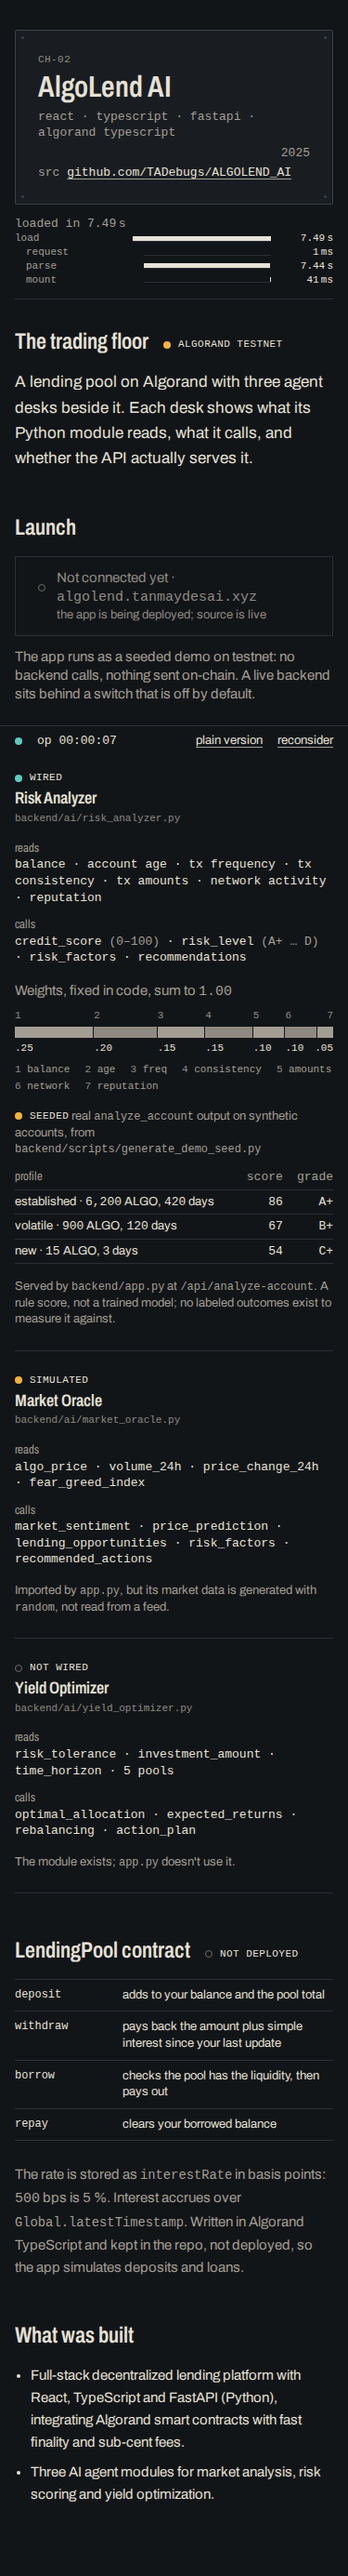
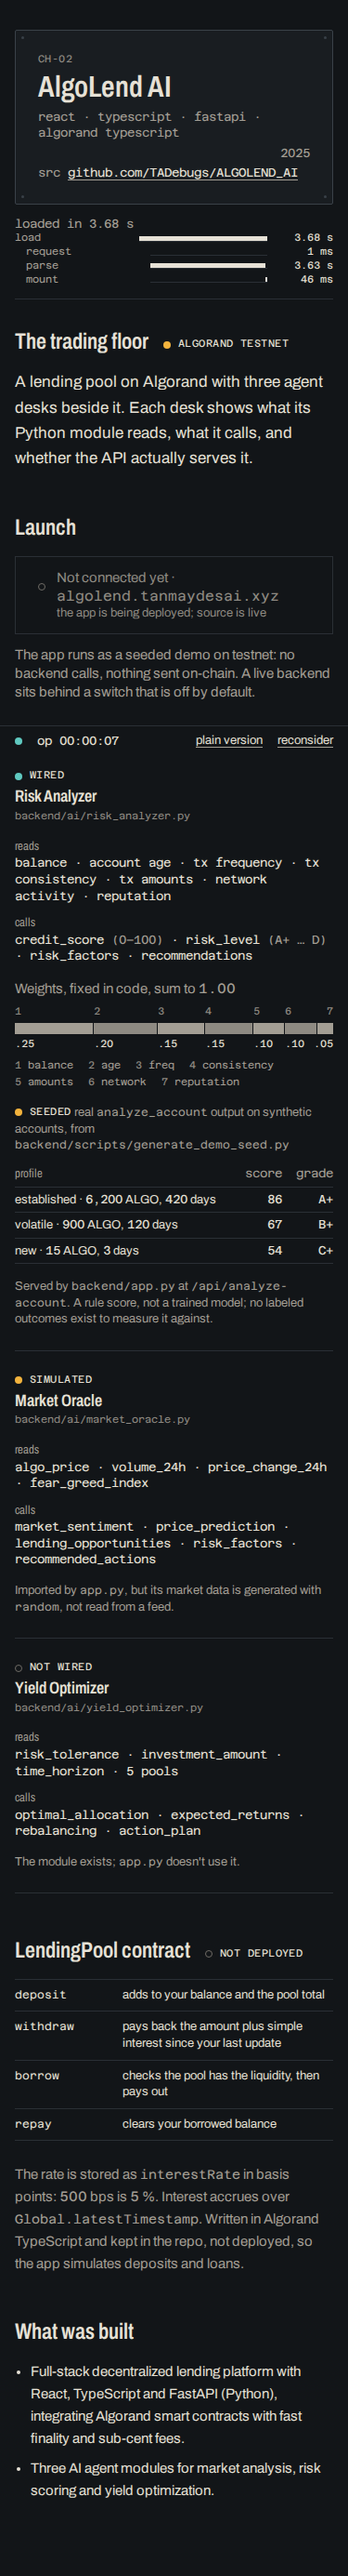
algolend r2 A1: weights bar accessible name includes values; status ready for merge
Claude-Session: https://claude.ai/code/session_01BDJRcceAtFeJAZPBQLgPvs

diff --git a/algolend/index.html b/algolend/index.html
@@ -83,6 +83,7 @@
     /* weights bar: segment widths are the real weights */
     .weights { display: grid; gap: var(--s-1); }
     .weights > p { margin-bottom: var(--s-1); }
+    .vh { position: absolute; inline-size: 1px; block-size: 1px; overflow: hidden; clip-path: inset(50%); white-space: nowrap; }
     .w-key { margin-top: var(--s-1); }
     .weights .bar { display: flex; block-size: 12px; gap: 1px; }
     .weights .bar span { background: var(--legend-dim); }
@@ -195,7 +196,7 @@
             <ol class="w-row w-idx" aria-hidden="true"><li style="flex:25">1</li><li style="flex:20">2</li><li style="flex:15">3</li><li style="flex:15">4</li><li style="flex:10">5</li><li style="flex:10">6</li><li style="flex:5">7</li></ol>
             <div class="bar" role="img" aria-labelledby="w-cap w-list"><span style="flex:25"></span><span style="flex:20"></span><span style="flex:15"></span><span style="flex:15"></span><span style="flex:10"></span><span style="flex:10"></span><span style="flex:5"></span></div>
             <ol class="w-row w-vals" aria-hidden="true"><li style="flex:25">.25</li><li style="flex:20">.20</li><li style="flex:15">.15</li><li style="flex:15">.15</li><li style="flex:10">.10</li><li style="flex:10">.10</li><li style="flex:5">.05</li></ol>
-            <ol class="w-key" id="w-list"><li><span class="faint">1</span> balance</li><li><span class="faint">2</span> age</li><li><span class="faint">3</span> freq</li><li><span class="faint">4</span> consistency</li><li><span class="faint">5</span> amounts</li><li><span class="faint">6</span> network</li><li><span class="faint">7</span> reputation</li></ol>
+            <ol class="w-key" id="w-list"><li><span class="faint">1</span> balance<span class="vh"> .25</span></li><li><span class="faint">2</span> age<span class="vh"> .20</span></li><li><span class="faint">3</span> freq<span class="vh"> .15</span></li><li><span class="faint">4</span> consistency<span class="vh"> .15</span></li><li><span class="faint">5</span> amounts<span class="vh"> .10</span></li><li><span class="faint">6</span> network<span class="vh"> .10</span></li><li><span class="faint">7</span> reputation<span class="vh"> .05</span></li></ol>
           </div>
           <table>
             <caption><span class="tag code"><span class="lamp is-caution" aria-hidden="true"></span>SEEDED</span> <span class="dim">real <code>analyze_account</code> output on synthetic accounts, from <code>backend/scripts/generate_demo_seed.py</code></span></caption>

diff --git a/.agents/status/algolend.md b/.agents/status/algolend.md
@@ -1,6 +1,6 @@
 # algolend
 
-status: in critique
+status: ready for merge
 branch: agent/algolend
 updated: 2026-10-04
-note: /algolend round 2 handed off (F1 launch moved up, F2 weights legend aligned). App repo: TADebugs/ALGOLEND_AI PR #2.
+note: /algolend r2 conditional pass + A1 fixed. PR #6. Shell stub remains until construct #7 merges (swap list in handoff). App repo: TADebugs/ALGOLEND_AI PR #2.
